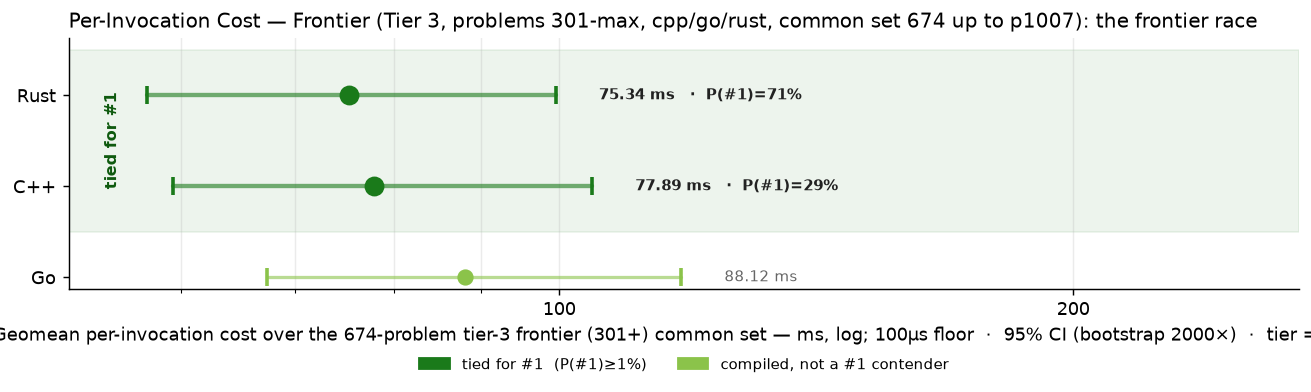
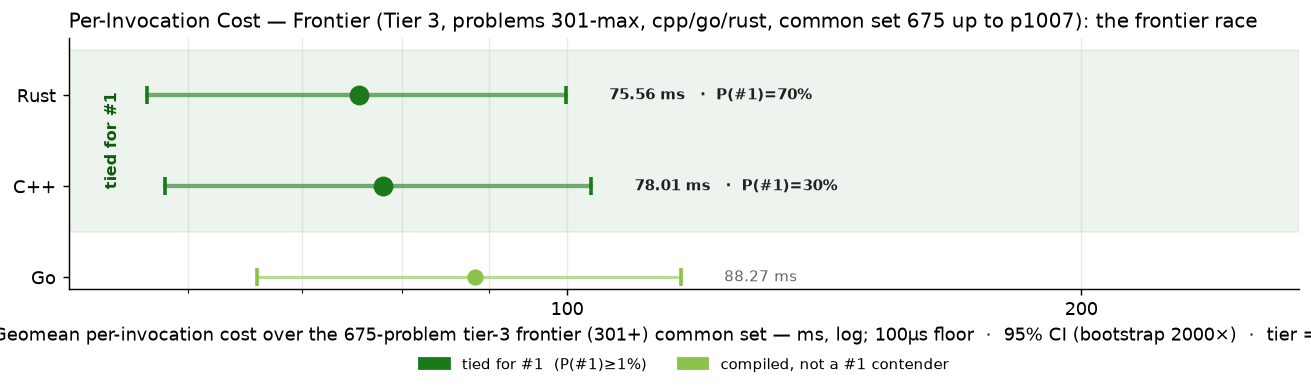
cpp p0883

diff --git a/RESULTS.md b/RESULTS.md
@@ -1,6 +1,6 @@
 # Project Euler — Cross-Language Benchmarks
 
-> **Scope: 4521 in-scope cells across 1007 problems × tiered languages — 4453 measured (98.5% coverage).**
+> **Scope: 4521 in-scope cells across 1007 problems × tiered languages — 4454 measured (98.5% coverage).**
 > The cross-language ranking below is computed over the **200-problem common set** (problems in 1-200 where every language has a passing measurement) — the apples-to-apples Foundation comparison surface.  Per-tier rankings and coverage detail appear further below.
 > Growing carefully — each new problem and language is audited for state-leak
 > safety, verified for answer correctness, and added only when it cleanly fits the
@@ -70,15 +70,15 @@ Same scatter as the Foundation chart, restricted to the tier-2 active languages 
 
 The frontier verification trio — C++, Go, Rust — on problems above 300. 3-way cross-language agreement is the verification protocol (strictly stronger than 2-way; see JOURNEY.md "Tier Reframing" episode for the p254 lesson that motivated it). Python and Zig are explicitly out of this tier — python's wall cost makes it impractical at level 5+, and zig's role caps at Tier 2.
 
-### Per-Invocation Cost (Common Set, 674 of ≤707 problems in scope)
+### Per-Invocation Cost (Common Set, 675 of ≤707 problems in scope)
 
 ![Per-Invocation Cost — Tier 3](charts/per_iter_total_tier3.png)
 
-| Rank | Language | Geomean (674-problem common set) | Total (sum) | Lines of code | vs Fastest |
+| Rank | Language | Geomean (675-problem common set) | Total (sum) | Lines of code | vs Fastest |
 |------|----------|--------------------:|------------:|--------------:|-----------:|
-| 1 | **Rust** | 75.34 ms | 1766.59 s | 136,470 | 1.00× |
-| 2 | **C++** | 77.89 ms | 1919.67 s | 99,974 | 1.03× |
-| 3 | **Go** | 88.12 ms | 2139.79 s | 127,452 | 1.17× |
+| 1 | **Rust** | 75.56 ms | 1767.15 s | 136,771 | 1.00× |
+| 2 | **C++** | 78.01 ms | 1919.89 s | 100,135 | 1.03× |
+| 3 | **Go** | 88.27 ms | 2140.07 s | 127,733 | 1.17× |
 
 ### Speed vs Code Size
 
@@ -264,7 +264,7 @@ table never silently mixes versions (METHODOLOGY.md §4).  Current state of the
 |----------|-----------|------:|---------------|
 | **ARM64** | `Apple clang version 21.0.0 (clang-2100.1.1.101)` | 200 | 2026-07-30 |
 | **C** | `Apple clang version 21.0.0 (clang-2100.1.1.101)` | 200 | 2026-07-30 |
-| **C++** | `Apple clang version 21.0.0 (clang-2100.1.1.101)` | 974 | 2026-09-06 |
+| **C++** | `Apple clang version 21.0.0 (clang-2100.1.1.101)` | 975 | 2026-09-06 |
 | **C#** | `10.0.101` | 200 | 2026-07-30 |
 | **Go** | `go version go1.26.5 darwin/arm64` | 977 | 2026-09-06 |
 | **Java** | `openjdk version "21.0.2" 2024-01-16 LTS` | 200 | 2026-07-30 |

diff --git a/per_problem/per_problem_0801-0900.md b/per_problem/per_problem_0801-0900.md
@@ -90,7 +90,7 @@ in tier-1 display order (native → managed → interpreted).
 | **p0880** | 3.57 s† | 374.32 ms | 1.12 s |
 | **p0881** | 1.26 ms | 291.61 ms | 14.20 ms |
 | **p0882** | 4.03 ms | 3.21 ms | 7.56 ms |
-| **p0883** | — | 562.62 ms | 286.30 ms |
+| **p0883** | 226.33 ms | 562.62 ms | 286.30 ms |
 | **p0884** | 21.59 s | 9.10 s | 21.23 s |
 | **p0885** | 67.61 ms | 65.16 ms | 38.71 ms |
 | **p0886** | 2.93 s | 781.78 ms | 595.44 ms |
